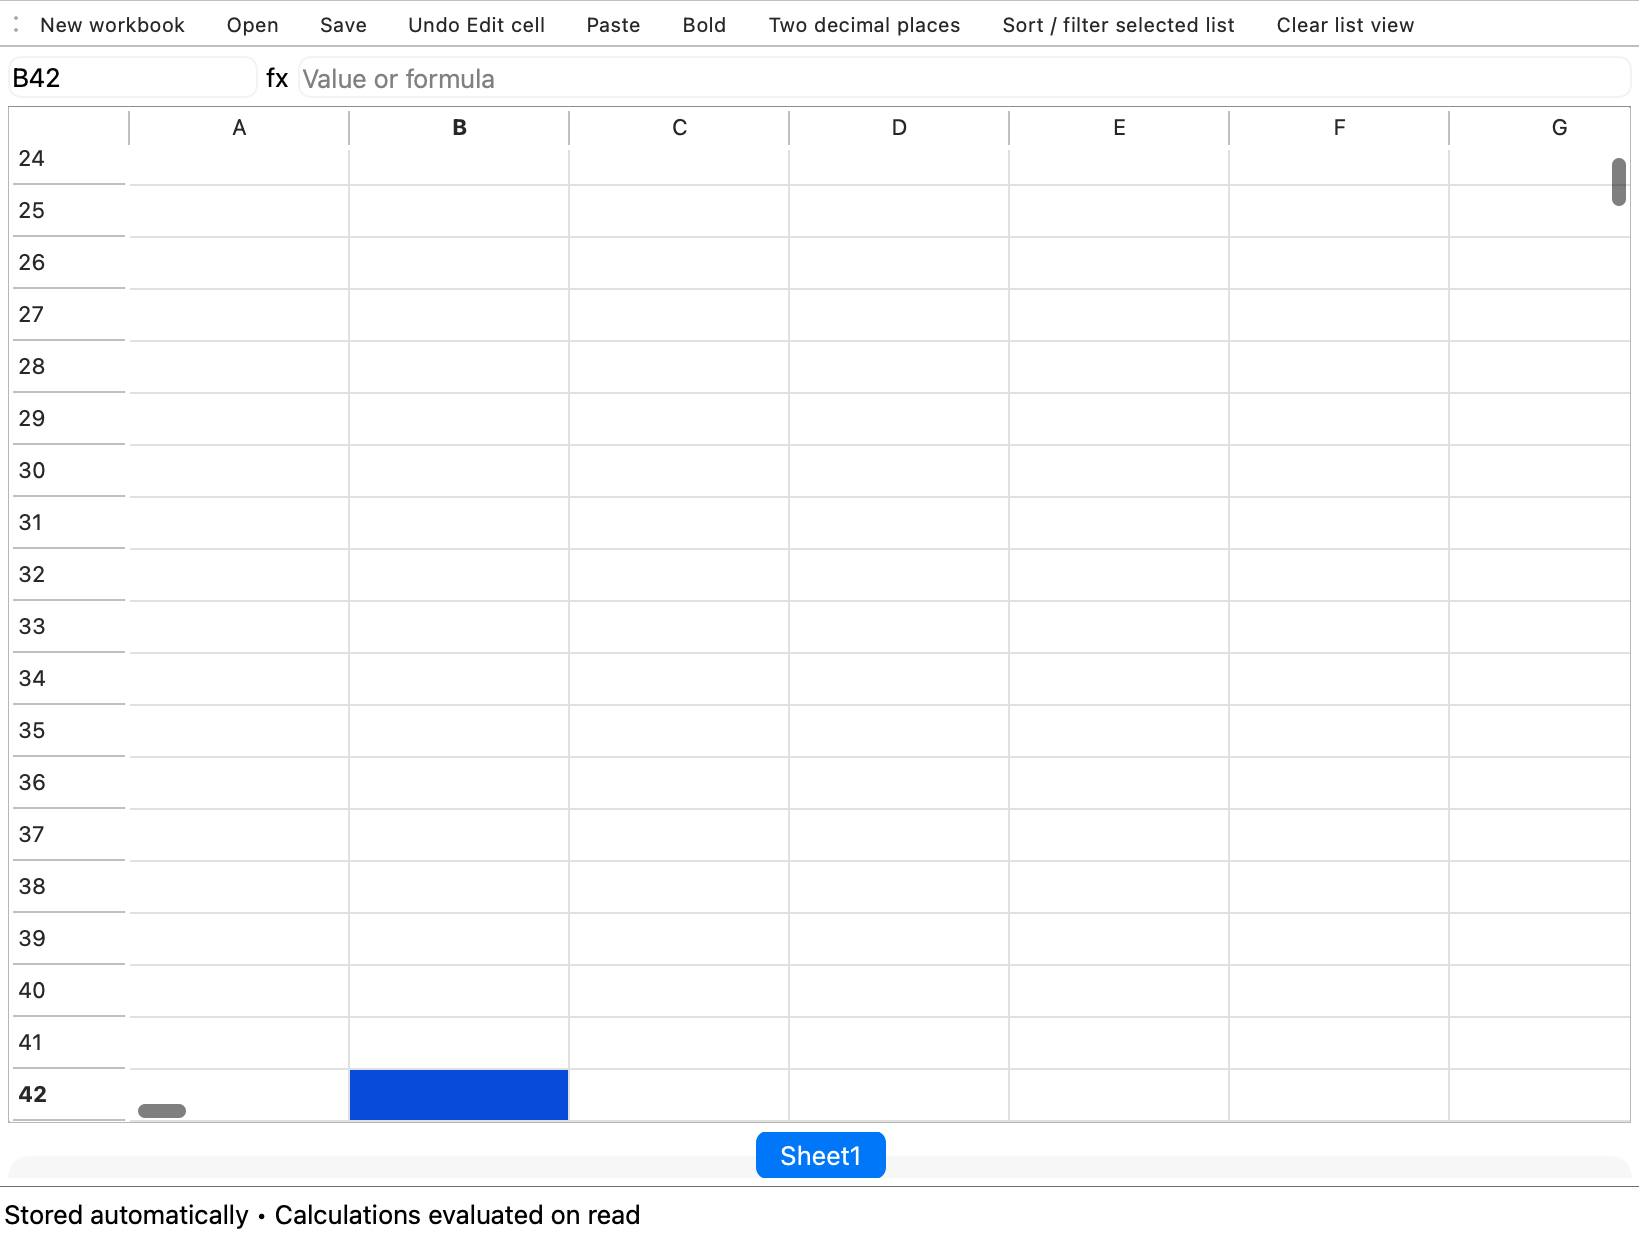
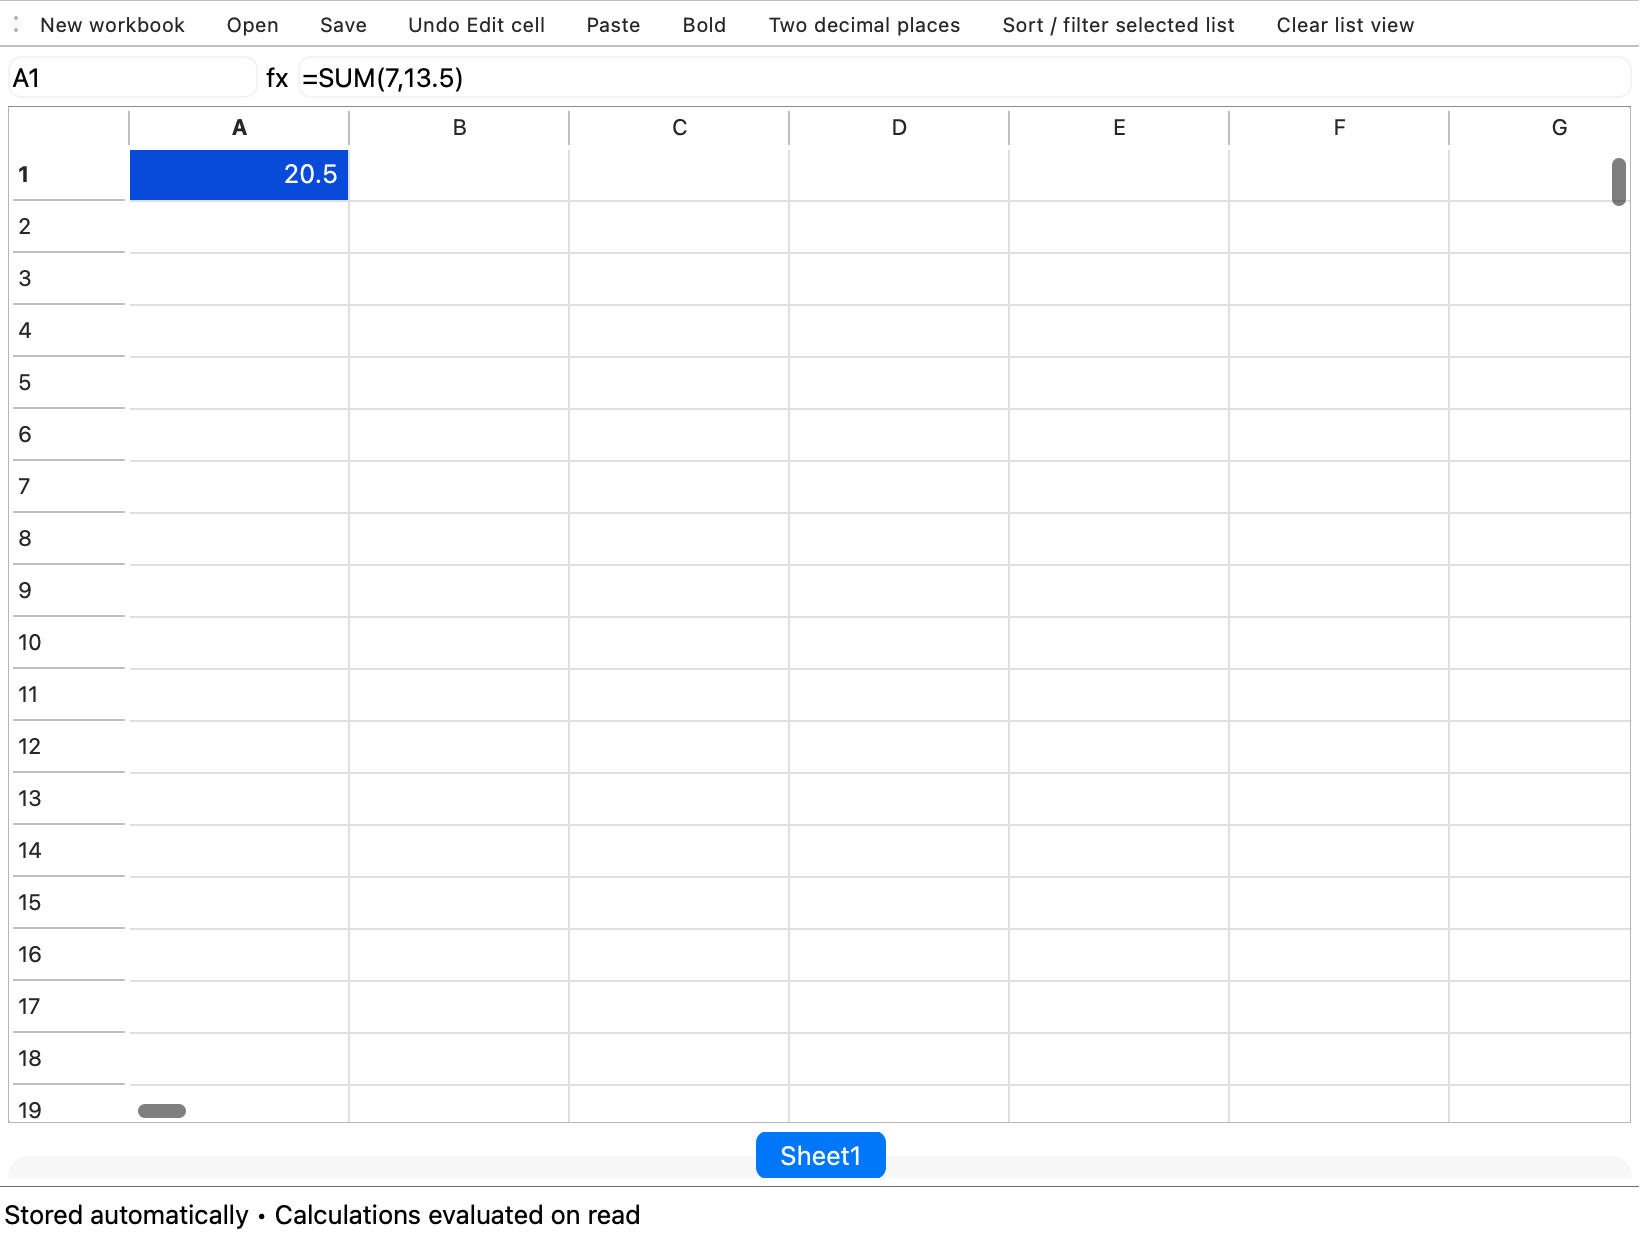
Verify acknowledged Enter before native Escape checks

diff --git a/tests/native_acceptance.cpp b/tests/native_acceptance.cpp
@@ -53,9 +53,10 @@ int main(int argc,char **argv) {
         QTest::keyClick(source,Qt::Key_Return);
         waitFor([&]{return opened.count()==2;},"Keyboard edit failed");
         waitFor([&]{return model->data(model->index(0,0)).toString()=="20.5";},"Native calculation mismatch");
+        waitFor([&]{return grid->currentIndex()==model->index(1,0) && source->isEnabled();},"Acknowledged Enter did not advance to A2");
         source->setFocus(); source->selectAll(); QTest::keyClicks(source,"999");
         QTest::keyClick(source,Qt::Key_Escape);
-        require(!source->isModified() && source->text()=="=SUM(7,13.5)","Escape did not restore the stored formula");
+        require(!source->isModified() && source->text().isEmpty(),"Escape did not restore the blank A2 input");
         require(model->data(model->index(0,0)).toString()=="20.5","Escape changed stored input");
         address->setFocus(); address->selectAll(); QTest::keyClicks(address,"B42"); QTest::keyClick(address,Qt::Key_Return);
         waitFor([&]{return grid->currentIndex()==model->index(41,1);},"Native address navigation failed");
@@ -98,6 +99,7 @@ int main(int argc,char **argv) {
             {"device_pixel_ratio",window.devicePixelRatioF()},{"scale_request",qEnvironmentVariable("QT_SCALE_FACTOR","1")},
             {"active_window",window.isActiveWindow()},{"accessible_controls",controls},
             {"keyboard_edit_calculation_escape_navigation",true},{"clipboard_paste",true},
+            {"acknowledged_enter_advances",true},
             {"window_logical_width",window.width()},{"cell_logical_width",cell.width()},
             {"palette_base",grid->palette().color(QPalette::Base).name()},
             {"screenshot",QFileInfo(screenshot).fileName()},
